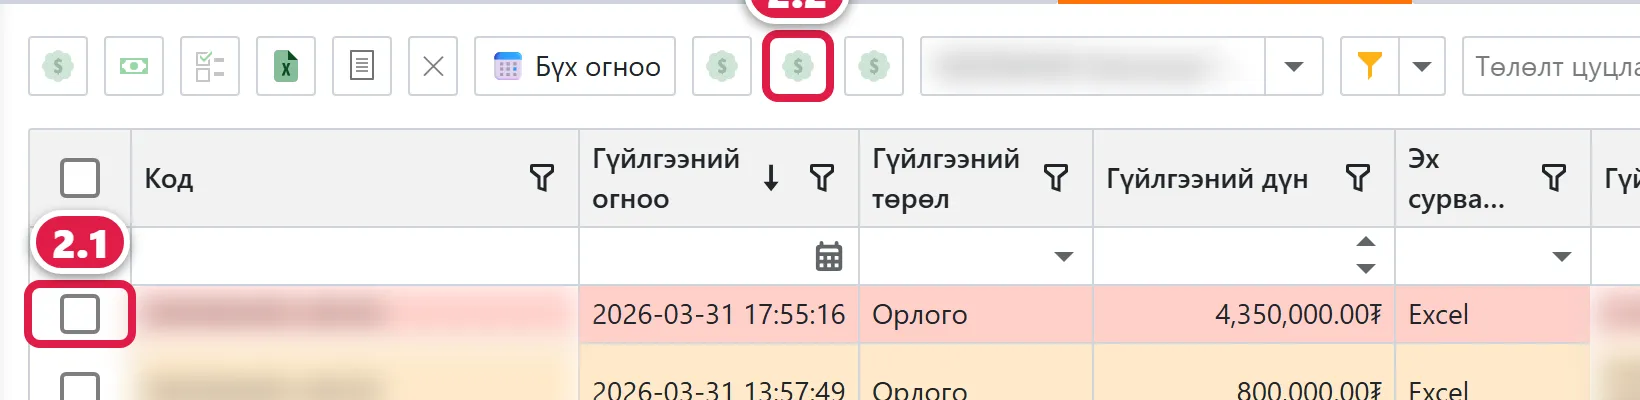
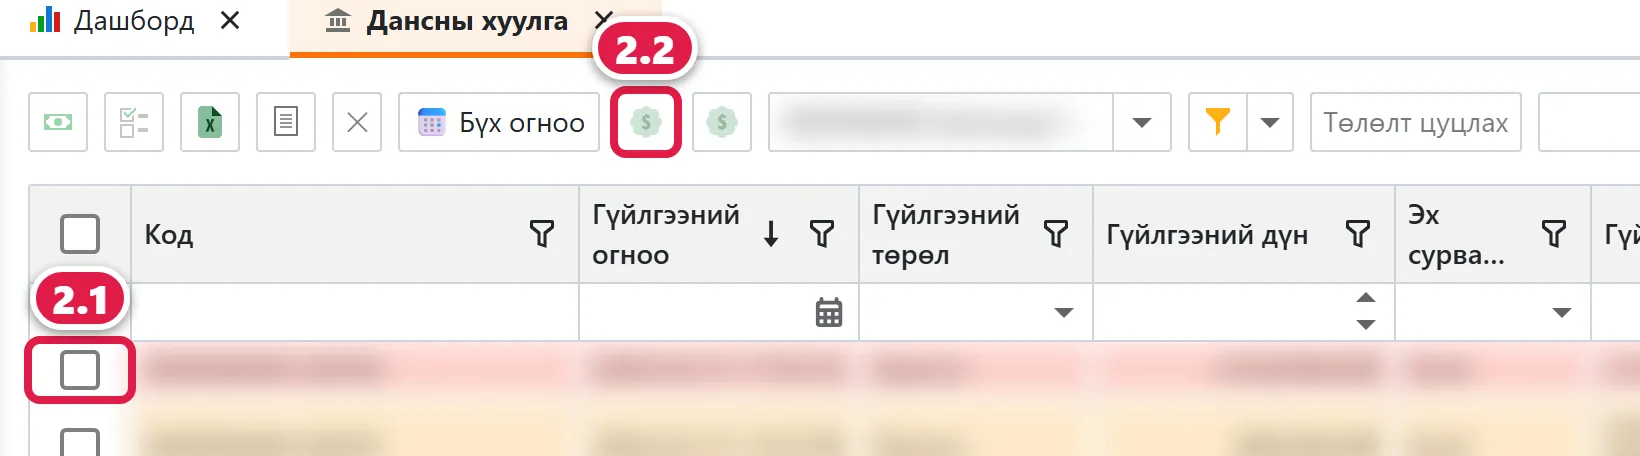
help: №56 — хуулгын хуучин «Төлөх», «Хувааж төлөх» хасав (14829ae), товч дахин дугаарлаж зураг 4 шинэчлэв
Claude-Session: https://claude.ai/code/session_01HhipU9G1kwDtLBKWYTpQfA

diff --git a/docs/owner/list/statement.md b/docs/owner/list/statement.md
@@ -4,8 +4,8 @@ slug: /owner/list/Statement_ListView
 sidebar_label: Дансны хуулга
 type: lavlah
 roles: [owner, nyagtlan]
-updated: 2026-10-27
-verified_commit: c68c602
+updated: 2026-10-29
+verified_commit: 14829ae
 keywords:
   - "Дансны хуулга"
   - "хуулга татах"
@@ -25,11 +25,10 @@ keywords:
 - Өнгө: Statement.cs:29-31 (#ffeaca бүрэн бүртгэсэн, #ffd0ca хэсэгчлэн)
 - Шүүлт: StatementController.cs:38-52, 68-120 (📅/✕, хэрэглэгчээр санана); StatementCustomFilterController.cs:91-117 (Данс, Төлбөр), :126-130 (#588)
 - Товчнууд:
-  - «Төлөх»: StatementCustomFilterController.cs:56-64, 259-291 (Sale(session, statement) → карт)
+  - №56 (#1227, 14829ae прод — deploy-log.md:18-20): хуучин «Төлөх» (StatementCustomFilterController.cs:56-67, LegacyStatementSaleHiddenKey) ба «Хувааж төлөх» (MainController.cs SplitSaleOnStatement) НУУГДСАН. «ХУРДАН ТӨЛӨХ»/«ХУРДАН ХУВААХ» хоёулаа «$» (BO_Sale_Item) дүрстэй, ToolTip-ээр ялгана (:73, :91). Smoke 10-29: toolbar-т «$» 2 товч.
   - Төлөлтийн урьдчилсан утга: Sale.cs:160-200 (DisableAmount = !splitAmount; Total = PaidAmount = Amount; хуваахад үлдэгдэл)
   - «ХУРДАН ТӨЛӨХ»: :67-75, 293-368 (FastContractLookupPopup, PreloadSearchFromStatement; Sale(stmt, contract, disableAmount:false))
   - «ХУРДАН ХУВААХ»: :80-88, 370-444 (Sale_CreateView_Split)
-  - «Хувааж төлөх»: MainController.cs:188-190, 2171-2192 (Sale_CreateView_Split; RuleCriteria Sale.cs:45)
   - «Багцаар төлөх»: MainController.cs:192-194, 2194-…; SalePackage.cs:11-66
   - «Шалгах»: Statement.cs:651-815 (QPay :661; гэрээ :694-742; нэхэмжлэх :744-759 ActiveStatus = 1 = Цуцлагдсан 🐞 (Dev_Research батлав); регистр :761-780; талбай :782-797 (2 байгууллагад))
   - Deploy хүлээж байна (2dc9301): #1179 FindActiveInvoiceBillByCode Statement.cs:667-670 (ActiveStatus = Active, BR-STMT-9) → нэхэмжлэхийн дугаараар таарна; #1180 NoActiveSalesCriteria :657 «[SaleId] is null AND [Sales][[ActiveStatus] = 0].Count() = 0» → «Төлөх»/«ХУРДАН ТӨЛӨХ» TargetObjectsCriteria (Spacehub.Blazor.Server/Controllers/StatementCustomFilterController.cs:62, :73), «Шалгах» criteria-гүй, DoSale HasActiveSales :673-682 → буцна (BR-STMT-10)
@@ -49,11 +48,11 @@ keywords:
 Гүйлгээ бүрээс **төлөлт** үүсгэж, түүнийг гэрээнд холбоно. Ингэснээр айлын төлбөр «төлсөн» болно. Төлөлтүүд **Тооцоо → Төлөлт** жагсаалтад очно.
 
 ## Хэзээ хэрэглэх
-- Гүйлгээг **нэг гэрээнд** бүртгэх → **1** «ХУРДАН ТӨЛӨХ» (эсвэл **2**).
-- Нэг гүйлгээгээр **хэд хэдэн айл** төлсөн → **3** «ХУРДАН ХУВААХ» (эсвэл **4**).
-- Гүйлгээ ямар гэрээнд хамаарахыг **хайх** → **6** «Шалгах».
-- **Буруу гэрээнд** бүртгэчихсэн → **7** «Төлөлт цуцлах».
-- Айл төлсөн гэсэн ч **хуулгад алга** → **8** «Хуулга татах», **9** Excel.
+- Гүйлгээг **нэг гэрээнд** бүртгэх → **1** «ХУРДАН ТӨЛӨХ».
+- Нэг гүйлгээгээр **хэд хэдэн айл** төлсөн → **2** «ХУРДАН ХУВААХ».
+- Гүйлгээ ямар гэрээнд хамаарахыг **хайх** → **4** «Шалгах».
+- **Буруу гэрээнд** бүртгэчихсэн → **5** «Төлөлт цуцлах».
+- Айл төлсөн гэсэн ч **хуулгад алга** → **6** «Хуулга татах», **7** Excel.
 
 ## Товчнууд
 
@@ -67,41 +66,33 @@ keywords:
 - Гүйлгээ **нэг гэрээний** төлбөр бол → **«ХУРДАН ТӨЛӨХ»**. Энэ хамгийн түгээмэл.
 - Нэг гүйлгээгээр **хэд хэдэн гэрээний** төлбөрийг төлсөн бол → **«ХУРДАН ХУВААХ»**.
 - Олон гүйлгээг автоматаар тааруулах бол → **«Шалгах»**.
+- «ХУРДАН ТӨЛӨХ», «ХУРДАН ХУВААХ» хоёулаа ногоон **«$»** дүрстэй. Хулганаа барихад тайлбар нь гарна.
 
-![Дансны хуулга жагсаалтын товч 1–5: төлөлт бүртгэх](/img/owner/list/statement-1.webp)
+![Дансны хуулга жагсаалтын товч 1–3: төлөлт бүртгэх](/img/owner/list/statement-1.webp)
 
-*Зураг 1. Дансны хуулга жагсаалтын товч 1–5: төлөлт бүртгэх.* Улаан дугаар = доорх товчны дугаар. Дарвал томорно.
+*Зураг 1. Дансны хуулга жагсаалтын товч 1–3: төлөлт бүртгэх.* Улаан дугаар = доорх товчны дугаар. Дарвал томорно.
 
 ### «ХУРДАН ТӨЛӨХ» {#hurdan-toloh}
 - **Юу хийдэг:** **«Гэрээ сонгох (хурдан)»** цонх нээнэ. Гүйлгээний утгаас эхний үгийг автоматаар хайлтад тавина. Гэрээгээ сонговол **төлөлтийн карт** нээгдэнэ. Дүн, огноо нь гүйлгээнээс бөглөгдсөн байна. Дүнг засах боломжгүй, бүтэн дүнгээр бүртгэнэ. Хадгалбал төлөлт бүртгэгдэнэ.
 - **Сонголт:** 1 мөр. Бүтэн төлөлтгүй гүйлгээ дээр идэвхтэй, бусад үед **саарал**.
 - **Анхаар:**
   - Хайлтад тохирох гэрээ гарахгүй бол хайлтын шүүлтийг **×**-ээр арилгаад бүх гэрээнээс хай.
-  - **Ягаан** (хэсэгчлэн хуваасан) гүйлгээн дээр **саарал** — үлдэгдлийг **3** «ХУРДАН ХУВААХ»-аар бүртгэ. <!-- #1180, 4452433 -->
+  - **Ягаан** (хэсэгчлэн хуваасан) гүйлгээн дээр **саарал** — үлдэгдлийг **2** «ХУРДАН ХУВААХ»-аар бүртгэ. <!-- #1180, 4452433 -->
   - Төлөлтийн тайлбар «Дансаар төлөлт: …» гэж эхэлнэ.
 - **Буцаах:** ✅ «Төлөлт цуцлах».
-
-### «Төлөх»
-- **Юу хийдэг:** хуучин арга. Гэрээ сонгох цонхгүйгээр шууд төлөлтийн карт нээнэ. Түрээслэгчийг картан дотроос гараар сонгоно.
-- **Сонголт:** 1 мөр. Бүтэн төлөлтгүй гүйлгээ дээр идэвхтэй, бусад үед **саарал**.
-- **Ягаан** (хэсэгчлэн хуваасан) гүйлгээн дээр **саарал** — үлдэгдлийг **3** «ХУРДАН ХУВААХ»-аар бүртгэ. <!-- #1180, 4452433 -->
 
 ### «ХУРДАН ХУВААХ» {#hurdan-huvaah}
 - **Юу хийдэг:** гүйлгээний **хуваарилагдаагүй үлдэгдлээс** нэг гэрээнд төлөлт бүртгэнэ. **«Гэрээ сонгох (хурдан хуваах)»** цонх нээгдэж, дараа нь хуваах карт гарна. Тайлбар нь «Дансаар хувааж төлөлт: …» гэж эхэлнэ. Дүнг нь засаж болно. Үлдэгдэл дуустал гэрээ бүрээр давтана.
 - **Сонголт:** 1 мөр. Үлдэгдэлтэй, бүрэн бүртгэгдээгүй орлогын гүйлгээ дээр л идэвхтэй, бусад үед **саарал**.
 - **Анхаар:** хуваасан дүнгүүдийн нийлбэр гүйлгээний дүнгээс хэтэрвэл «Хуваагдаж төлсөн дүнгүүд гүйлгээний дүнгээс хэтрээд байна» гэж гараад хадгалагдахгүй.
 
-### «Хувааж төлөх»
-- **Юу хийдэг:** «ХУРДАН ХУВААХ»-тай ижил, гэхдээ гэрээ сонгох цонхгүй хуучин арга. Гэрээг картан дотроос сонгоно.
-- **Сонголт:** 1 мөр. Нөхцөл нь «ХУРДАН ХУВААХ»-тай ижил.
-
 ### «Багцаар төлөх»
 - **⚠ Одоогоор төлөлт үүсгэдэггүй — ашиглахгүй.** Цонхонд түрээслэгчийн гэрээнүүдээр мөр гарч дүн хуваагдах боловч хадгалахад төлөлт үүсэхгүй, гүйлгээ «бүртгээгүй» хэвээр үлдэнэ.
 - Олон гэрээнд хуваах бол **«ХУРДАН ХУВААХ»**-ыг ашигла.
 
-![Дансны хуулга жагсаалтын товч 6–9: шалгах, цуцлах, хуулга татах](/img/owner/list/statement-2.webp)
+![Дансны хуулга жагсаалтын товч 4–7: шалгах, цуцлах, хуулга татах](/img/owner/list/statement-2.webp)
 
-*Зураг 2. Дансны хуулга жагсаалтын товч 6–9: шалгах, цуцлах, хуулга татах.* Улаан дугаар = доорх товчны дугаар. Дарвал томорно.
+*Зураг 2. Дансны хуулга жагсаалтын товч 4–7: шалгах, цуцлах, хуулга татах.* Улаан дугаар = доорх товчны дугаар. Дарвал томорно.
 
 ### «Шалгах» {#shalgah}
 - **Юу хийдэг:** сонгосон гүйлгээнүүдийн **утгыг уншиж**, тохирох гэрээг олбол **төлөлтийг автоматаар** бүртгэнэ. Утгаас дараах төрлүүдийг дарааллаар хайна. **Нэг төрөл олдвол** (жишээ нь гэрээний дугаар шиг тоо) **бусад төрлийг туршихгүй**, тэр төрлөөр гэрээ олдохгүй бол алгасна:
@@ -175,9 +166,9 @@ keywords:
 - Жагсаалт хоосон харагдвал → [Жагсаалт хоосон](/owner/jagsaalt-hooson-shuult)
 
 ## ⚠ Анхаар
-- **1**, **2**: **ягаан** (хэсэгчлэн хуваасан) гүйлгээн дээр **саарал**. Үлдэгдлийг **3** «ХУРДАН ХУВААХ»-аар бүртгэ.
-- **5** «Багцаар төлөх»: одоогоор төлөлт үүсгэдэггүй — бүү ашигла.
-- **7** «Төлөлт цуцлах»: хүчинтэй **е-баримттай** төлөлт байвал юу ч цуцлахгүй. Эхлээд баримтаа буцаа.
+- **1**: **ягаан** (хэсэгчлэн хуваасан) гүйлгээн дээр **саарал**. Үлдэгдлийг **2** «ХУРДАН ХУВААХ»-аар бүртгэ.
+- **3** «Багцаар төлөх»: одоогоор төлөлт үүсгэдэггүй — бүү ашигла.
+- **5** «Төлөлт цуцлах»: хүчинтэй **е-баримттай** төлөлт байвал юу ч цуцлахгүй. Эхлээд баримтаа буцаа.
 
 ## Түгээмэл асуулт
 - **Айл төлсөн гэсэн, хуулгад алга.** «Данс»-аа сонгоод «Хуулга татах» дар, эсвэл 📅 хүрээгээ шалга. Банкнаас Excel татаж «Хуулга татах (Excel)»-аар оруулж бас болно.

diff --git a/docs/owner/huulga-tolbor.md b/docs/owner/huulga-tolbor.md
@@ -1,8 +1,8 @@
 ---
 type: zaavar
 roles: [owner, nyagtlan, menejer]
-updated: 2026-10-27
-verified_commit: 5fa824f
+updated: 2026-10-29
+verified_commit: 14829ae
 sidebar_position: 8
 sidebar_label: Төлбөрийг хуулгаас бүртгэх
 keywords:
@@ -58,7 +58,7 @@ keywords:
 <!-- Зургийг scripts/shots/shoot.cjs автоматаар авсан (прод, туршилтын owner Рентхаб, PII blur). Дугаар = shots.json «n» = алхмын дугаар. Гараар засахгүй. -->
 
 1. **Төлбөр бүртгээгүй** гүйлгээг сонго.
-2. **ХУРДАН ТӨЛӨХ** товчийг дар. Ижил дүрстэй 4 товч (**Төлөх**, **ХУРДАН ТӨЛӨХ**, **ХУРДАН ХУВААХ**, **Хувааж төлөх**) байдаг тул хулганаа барьж нэрийг нь шалга.
+2. **ХУРДАН ТӨЛӨХ** товчийг дар. **ХУРДАН ТӨЛӨХ**, **ХУРДАН ХУВААХ** хоёулаа ногоон «$» дүрстэй. Хулганаа барьж тайлбарыг нь шалга.
 
 ![Гэрээ сонгох (хурдан) цонх: хайх талбар, «За»](/img/owner/huulga-dialog-toloh.webp)
 
